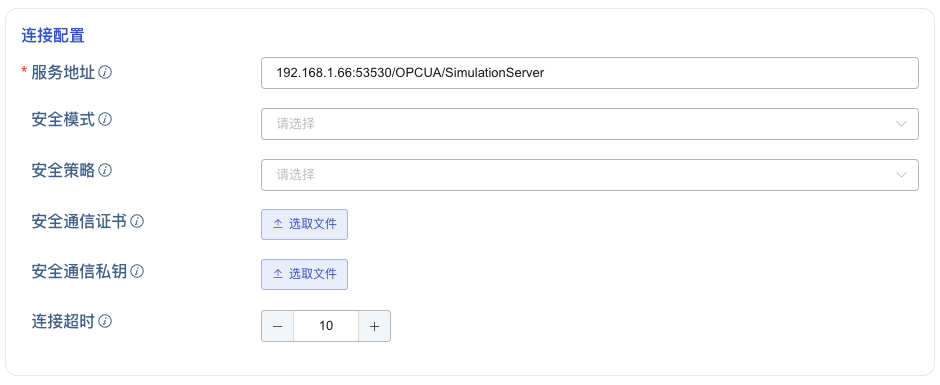
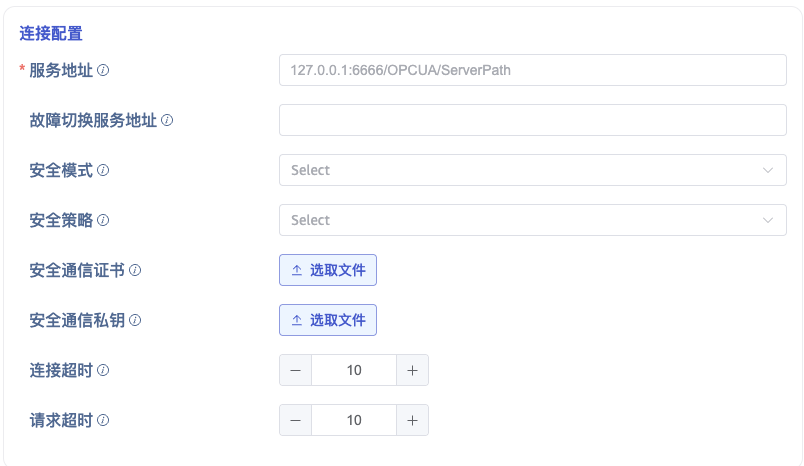
docs(opc): support server address failover

diff --git a/docs/zh/06-advanced/05-data-in/05-opcua.md b/docs/zh/06-advanced/05-data-in/05-opcua.md
@@ -34,7 +34,13 @@ TDengine TSDB 可以高效地从 OPC-UA 服务器读取数据并将其写入 TDe
 
 ### 3. 配置连接信息
 
-在 **连接配置** 区域填写 **OPC-UA 服务地址**，例如：`127.0.0.1:5000`，并配置数据传输安全模式，有三种安全模式可选：
+在 **连接配置** 区域:
+
+1. **OPC-UA 服务地址**：OPC UA 服务器端点，如：127.0.0.1:6666/OPCUA/ServerPath。
+如果使用了 Agent ，该地址必须能够从 Agent 访问。如果没有使用 Agent, 该地址必须能够从 TDengine 系统所在服务器访问。
+2. **故障切换服务地址**：OPC 服务器的故障切换服务器端点，可以指定多个，用逗号分割。
+
+配置数据传输安全模式，有三种安全模式可选：
 
 1. None：通信数据以明文形式传输。
 2. Sign：使用数字签名对通信数据进行验证，保护数据完整性。
